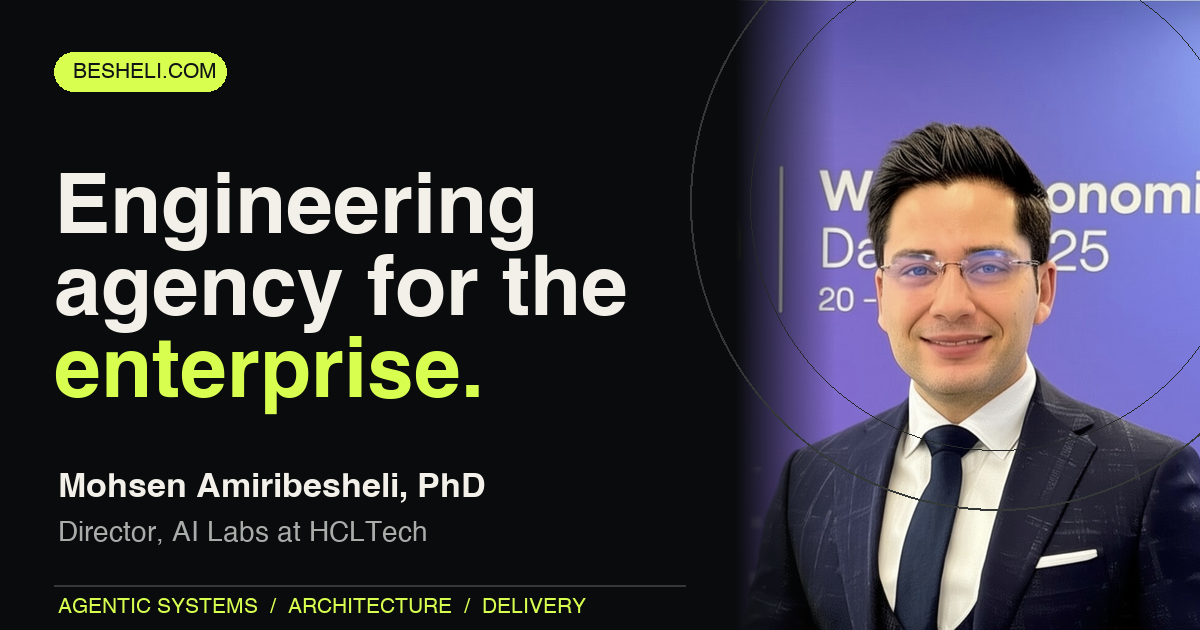
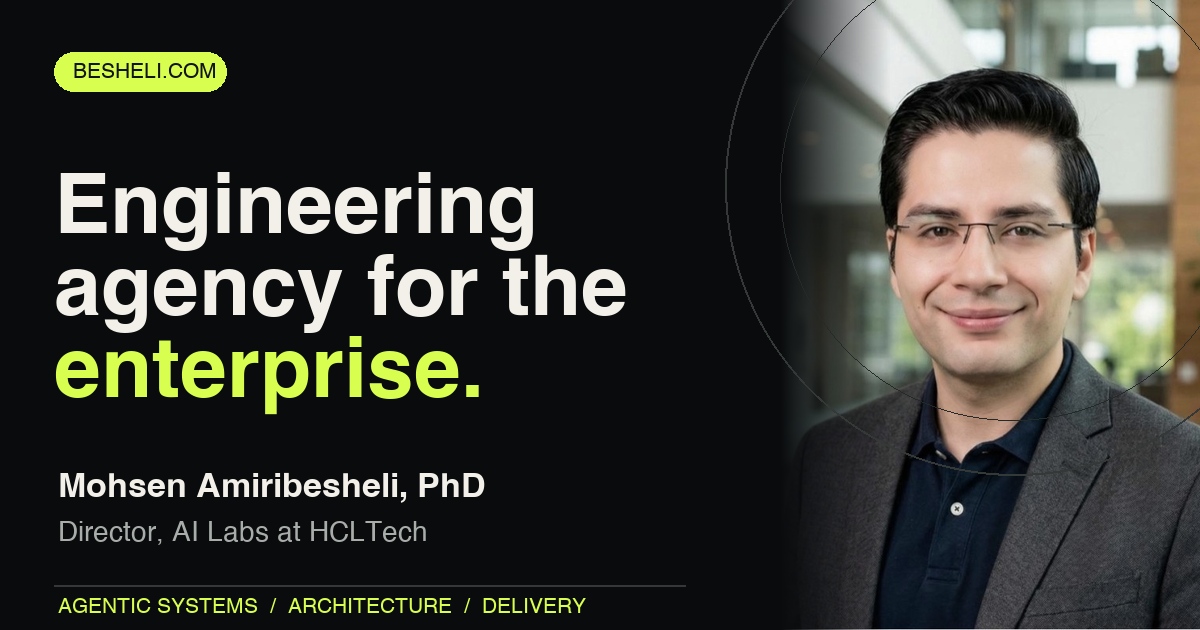
Use updated portrait with quieter layout

diff --git a/index.html b/index.html
@@ -183,8 +183,8 @@
     }
     .hero-grid {
       display: grid;
-      grid-template-columns: minmax(0, 1.32fr) minmax(330px, .68fr);
-      gap: clamp(40px, 7vw, 110px);
+      grid-template-columns: minmax(0, 1.5fr) minmax(280px, .5fr);
+      gap: clamp(40px, 6vw, 90px);
       align-items: center;
     }
     .hero-copy { position: relative; z-index: 2; }
@@ -229,7 +229,7 @@
     .button .arrow { font-size: 17px; transition: transform .25s ease; }
     .button:hover .arrow { transform: translate(3px,-3px); }
 
-    .portrait-stage { position: relative; z-index: 1; padding: 20px; }
+    .portrait-stage { position: relative; z-index: 1; width: 100%; max-width: 370px; padding: 14px; justify-self: end; }
     .portrait-frame {
       position: relative;
       overflow: hidden;
@@ -569,7 +569,7 @@
     @media (max-width: 1050px) {
       .nav-inner { grid-template-columns:1fr auto; }
       .nav-links { display:none; }
-      .hero-grid { grid-template-columns:minmax(0,1.12fr) minmax(300px,.88fr); gap:45px; }
+      .hero-grid { grid-template-columns:minmax(0,1.35fr) minmax(280px,.65fr); gap:38px; }
       .hero h1 { font-size:clamp(58px,8vw,88px); }
       .principles { grid-template-columns:1fr; }
       .principle, .principle + .principle { padding:28px 0; border-right:0; border-bottom:1px solid var(--line-dark); display:grid; grid-template-columns:80px .6fr 1fr; gap:25px; align-items:start; }
@@ -618,7 +618,7 @@
       .site-nav.menu-open .nav-links a { width:100%; padding:16px 0; border-bottom:1px solid var(--line); }
       .hero { min-height:auto; padding:110px 0 34px; }
       .hero-grid { grid-template-columns:1fr; }
-      .portrait-stage { order:-1; width:min(88%,430px); margin-inline:auto; padding:10px; }
+      .portrait-stage { width:min(70%,320px); margin:28px auto 0; padding:8px; justify-self:center; }
       .portrait-tag { left:-5px; }
       h1 { font-size:clamp(57px,15vw,90px); }
       .hero-foot { grid-template-columns:1fr auto; margin-top:50px; }
@@ -646,7 +646,7 @@
 
     @media (max-width: 560px) {
       .hero-actions .button { width:100%; }
-      .portrait-stage { width:100%; }
+      .portrait-stage { width:min(76%,300px); }
       .portrait-frame { aspect-ratio:.9; }
       .hero h1 { letter-spacing:-.064em; }
       .hero-intro { font-size:16px; }
@@ -709,7 +709,7 @@
           <div class="orbit"></div>
           <div class="portrait-tag">Human in command</div>
           <div class="portrait-frame">
-            <img src="portrait.jpeg" alt="Portrait of Mohsen Amiribesheli" width="1024" height="1024">
+            <img src="portrait.jpeg" alt="Portrait of Mohsen Amiribesheli" width="800" height="800">
             <div class="portrait-caption">
               <div><strong>Mohsen Amiribesheli</strong><span>Director, AI Labs · HCLTech</span></div>
               <span>51.5072° N<br>0.1276° W</span>
